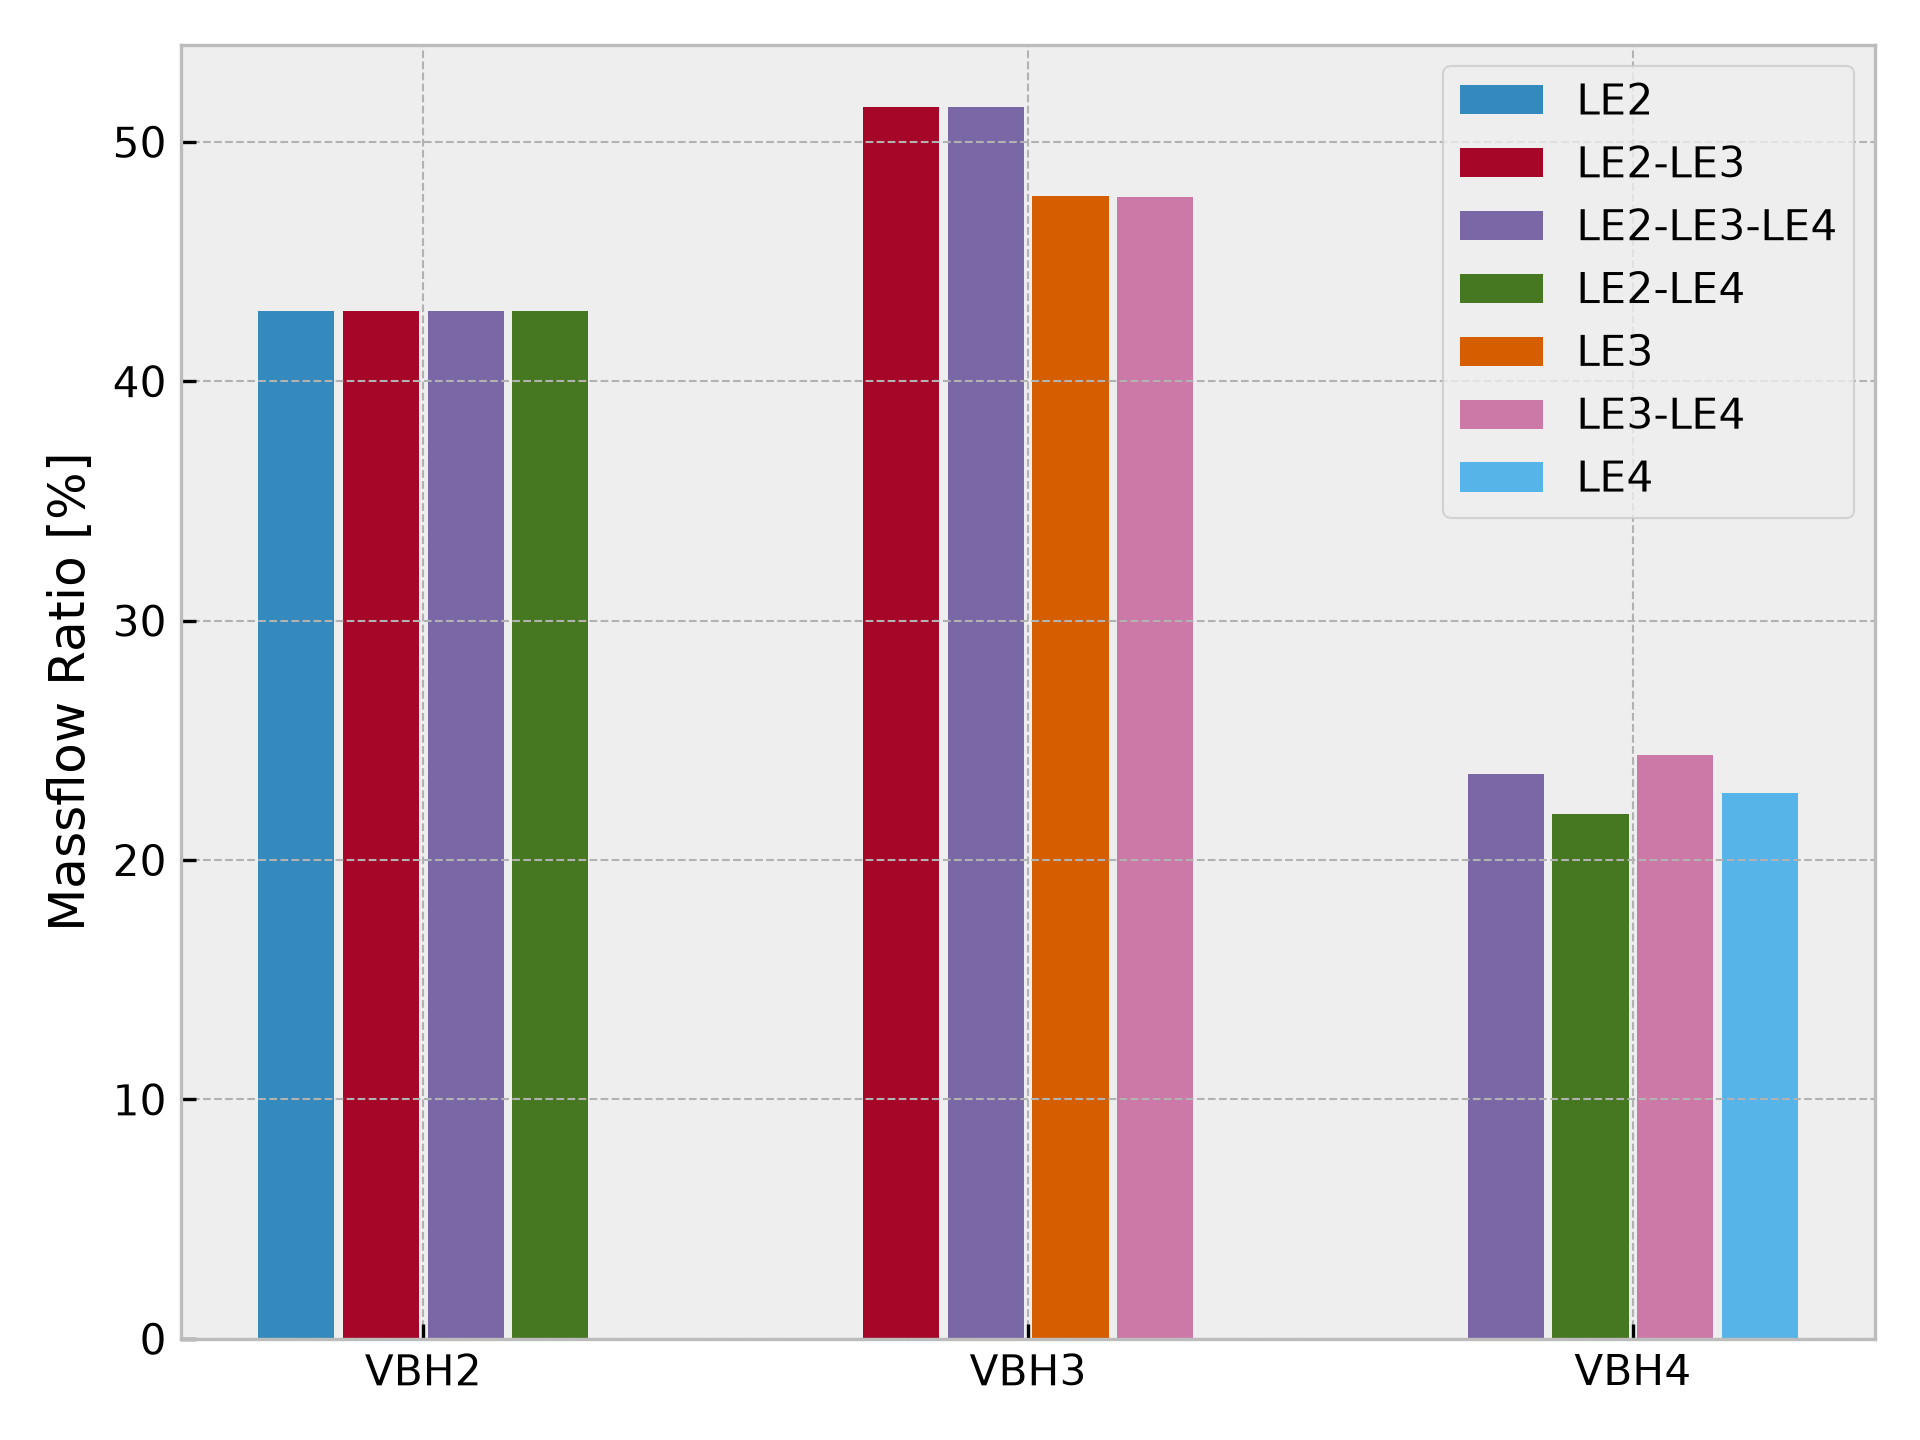
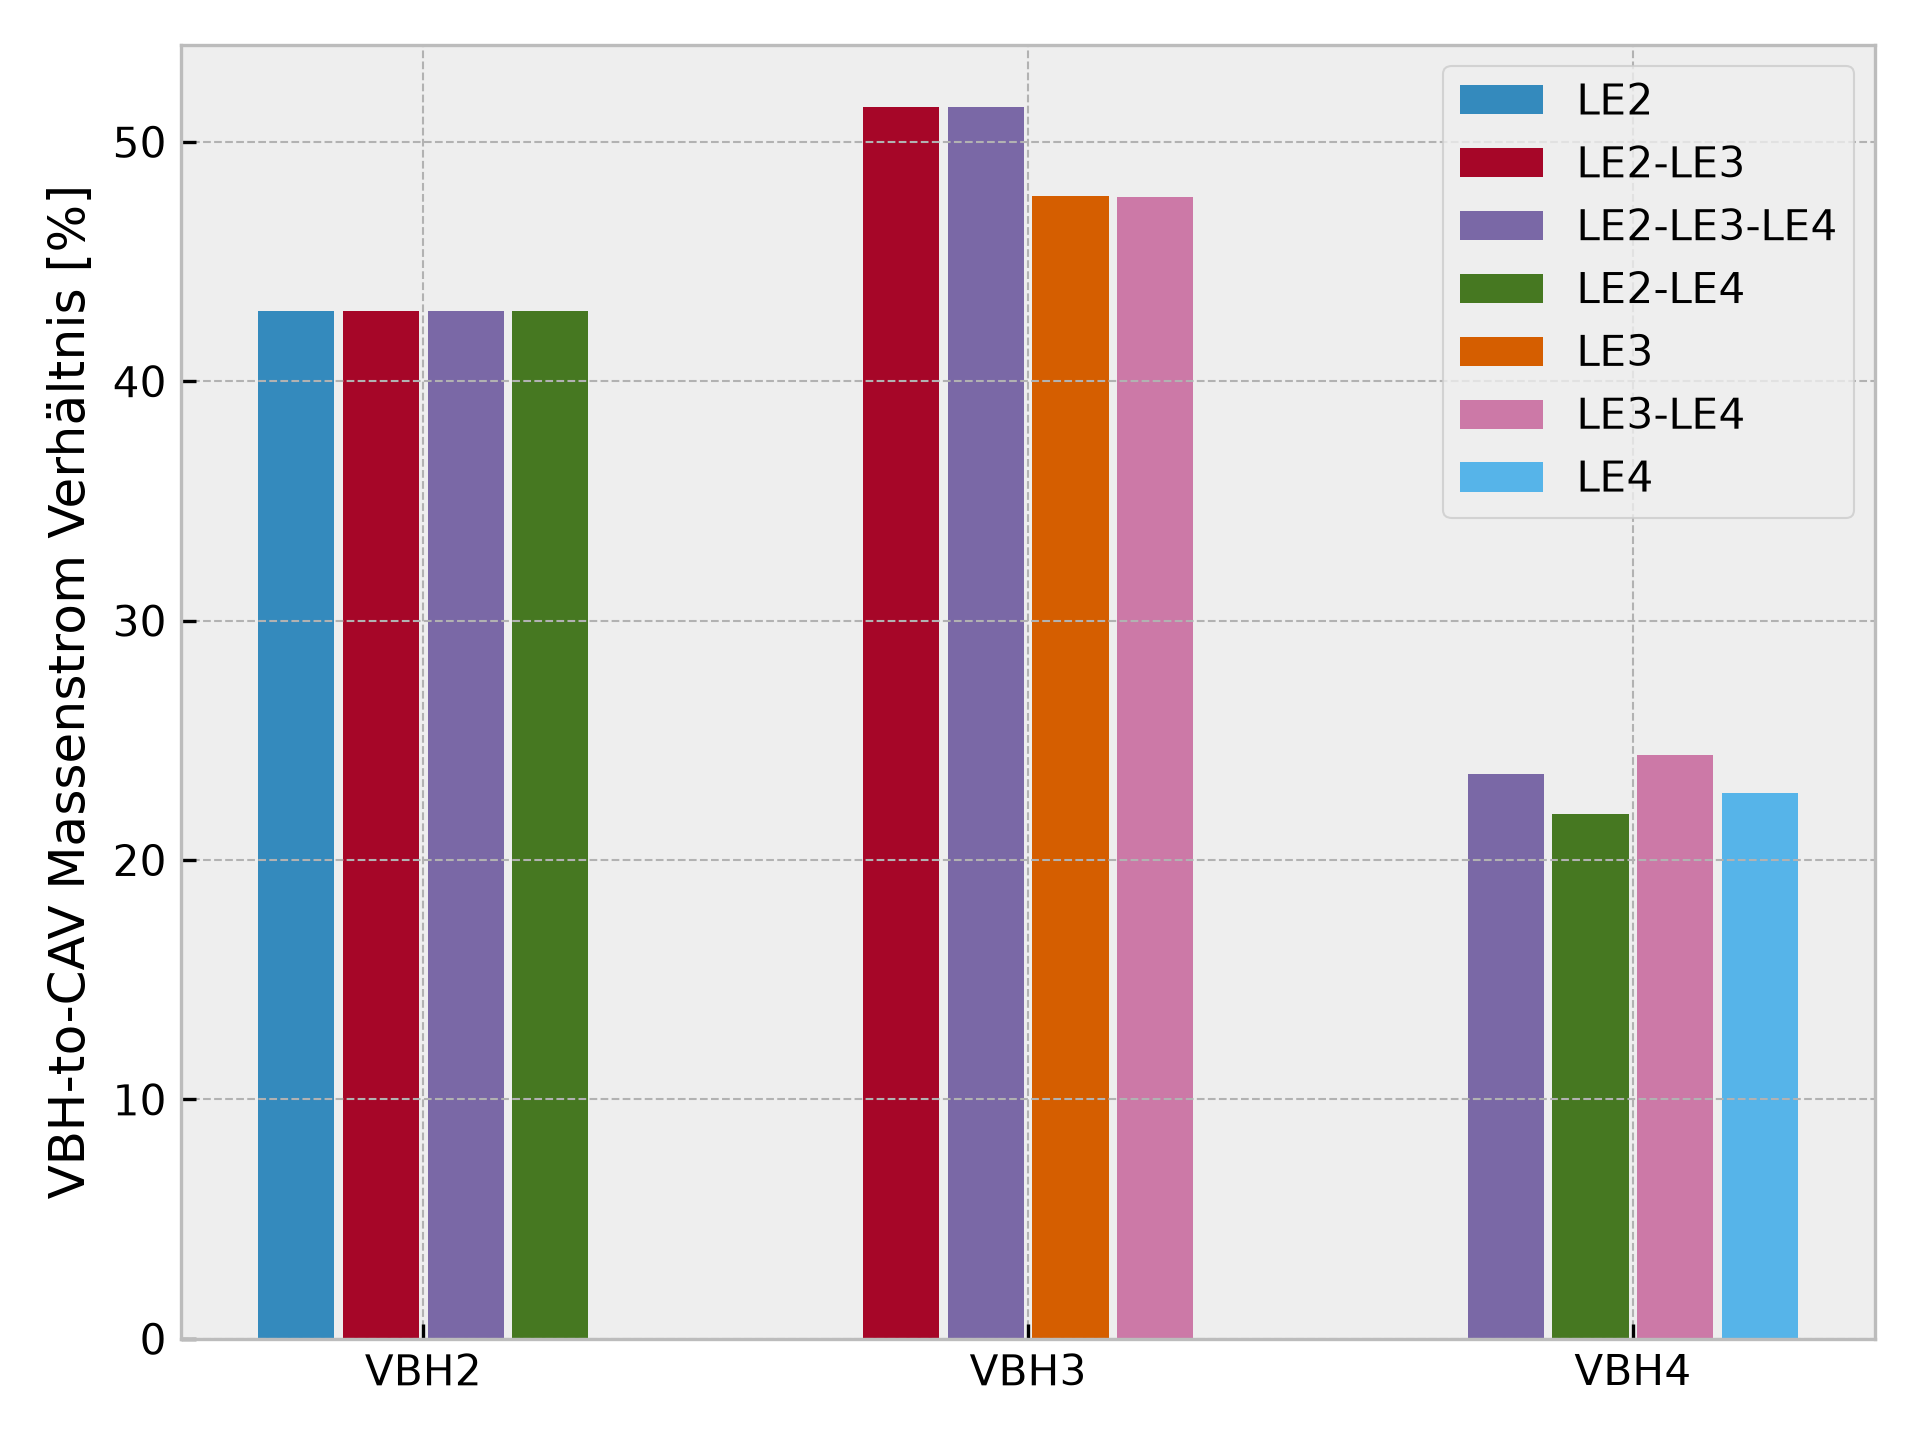
Translate it to german

Changed region(s): [[0.0, 0.4062, 0.0625, 0.8125], [0.0312, 0.2188, 0.0625, 0.375], [0.0312, 0.125, 0.0625, 0.1875]]

diff --git a/bar_chart.py b/bar_chart.py
@@ -168,7 +168,7 @@ def plot_vbh_massflow_ratios(
 
     ax.set_xticks(group_centers)
     ax.set_xticklabels(vbh_labels)
-    ax.set_ylabel("Massflow Ratio [%]")
+    ax.set_ylabel("VBH-to-CAV Massenstrom Verhältnis [%]")
     ax.legend(handles=legend_handles, loc="best", frameon=True)
 
     fig.tight_layout()
